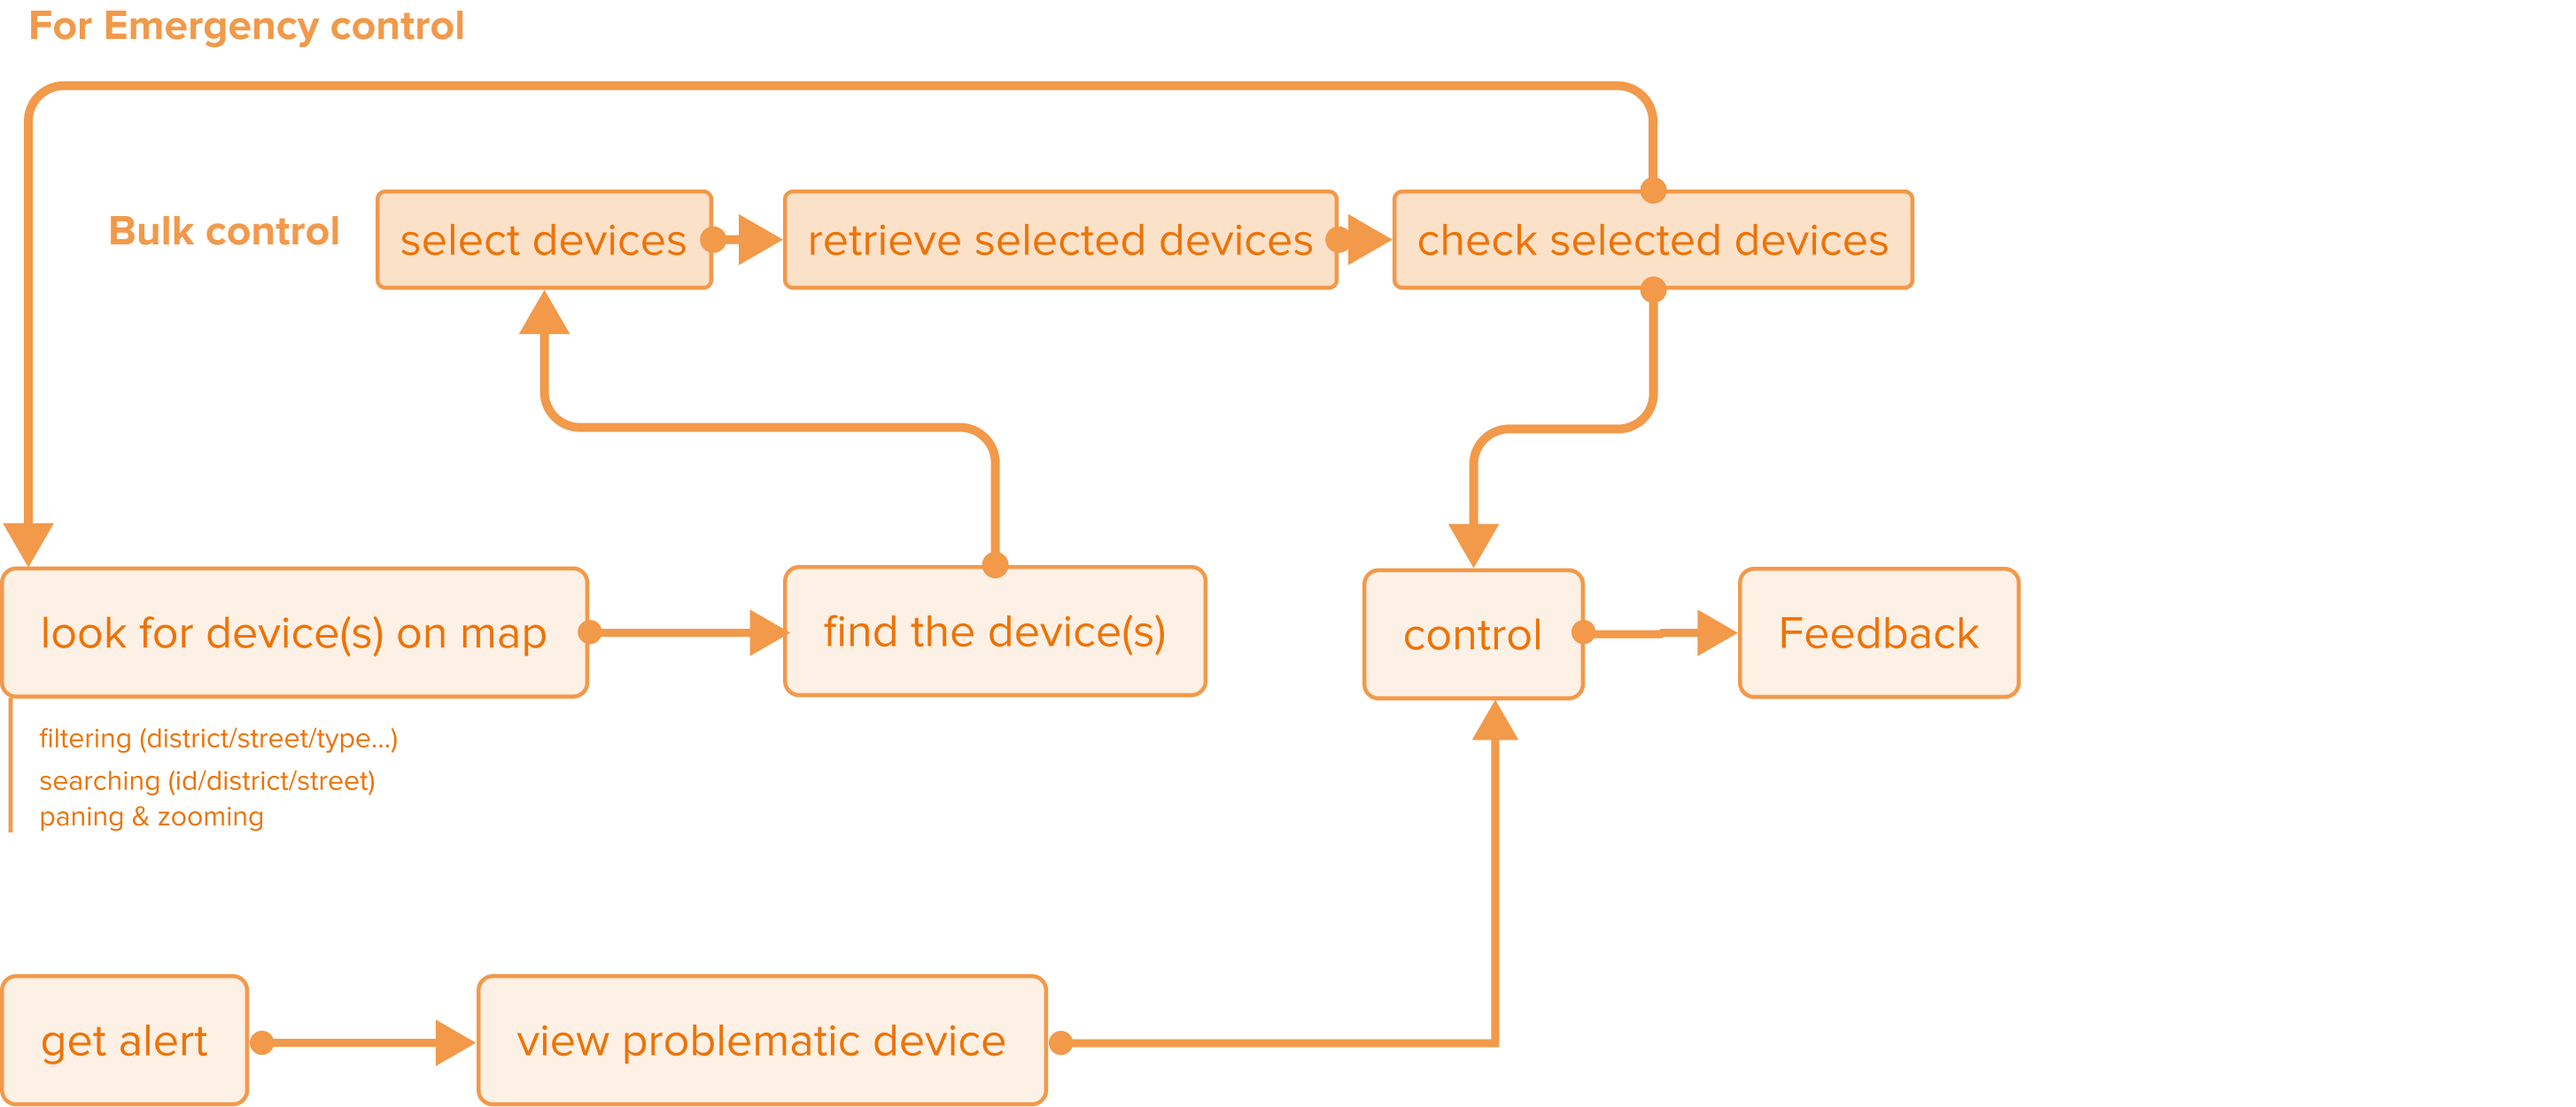
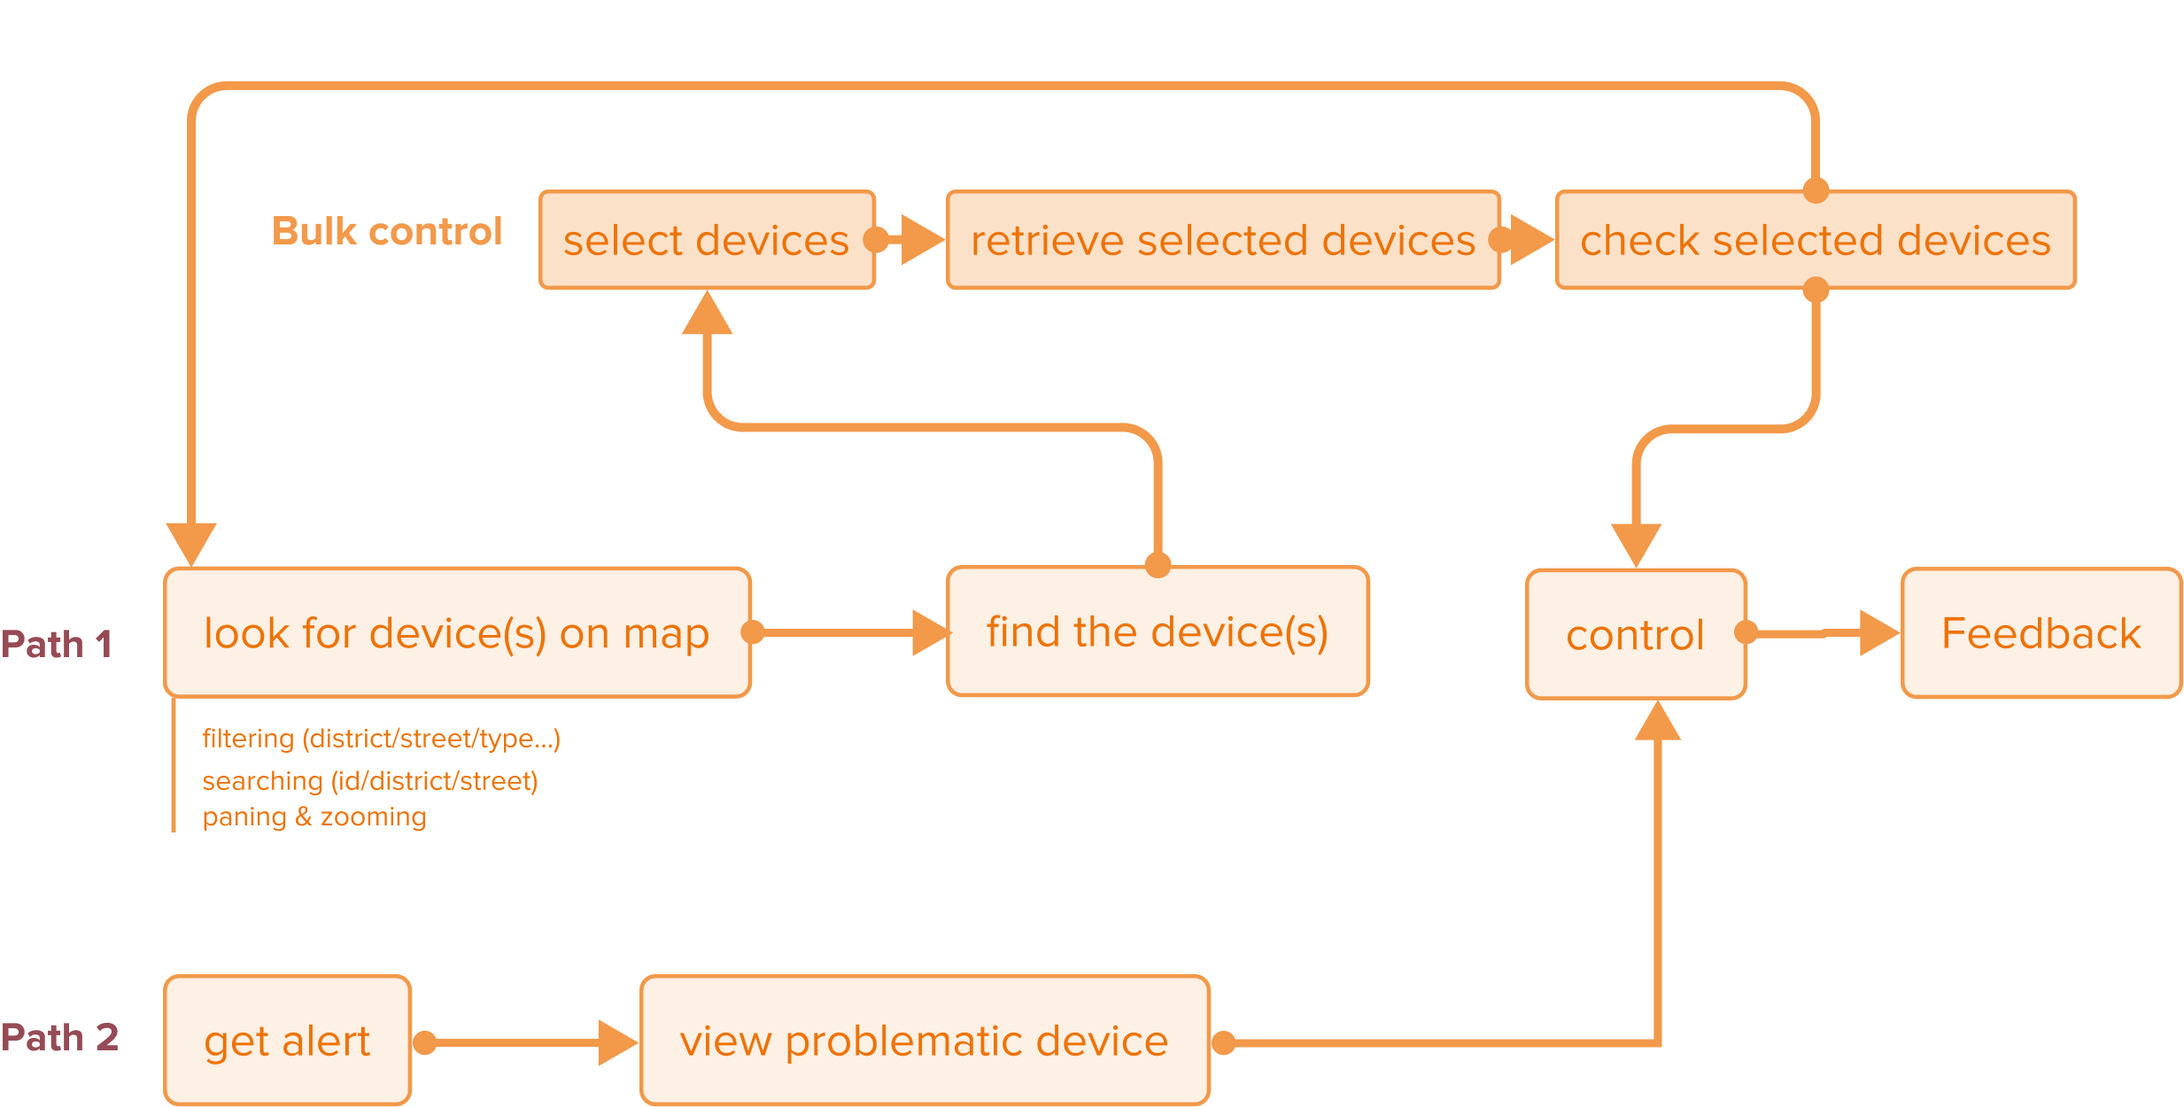
change nav

Changed region(s): [[0.0, 0.0, 1.0, 1.0]]

diff --git a/src/App.css b/src/App.css
@@ -166,8 +166,8 @@ a, .btn-link{
   font-size: 1rem;
   text-decoration: none!important;
   /* font-family: 'Roboto', sans-serif; */
-  font-family: 'Montserrat';
-  font-weight: 500;
+  font-family: 'proxima-nova';
+  font-weight: 400;
   text-transform: uppercase;
   font-variant: small-caps;
   letter-spacing: 0.04em;
